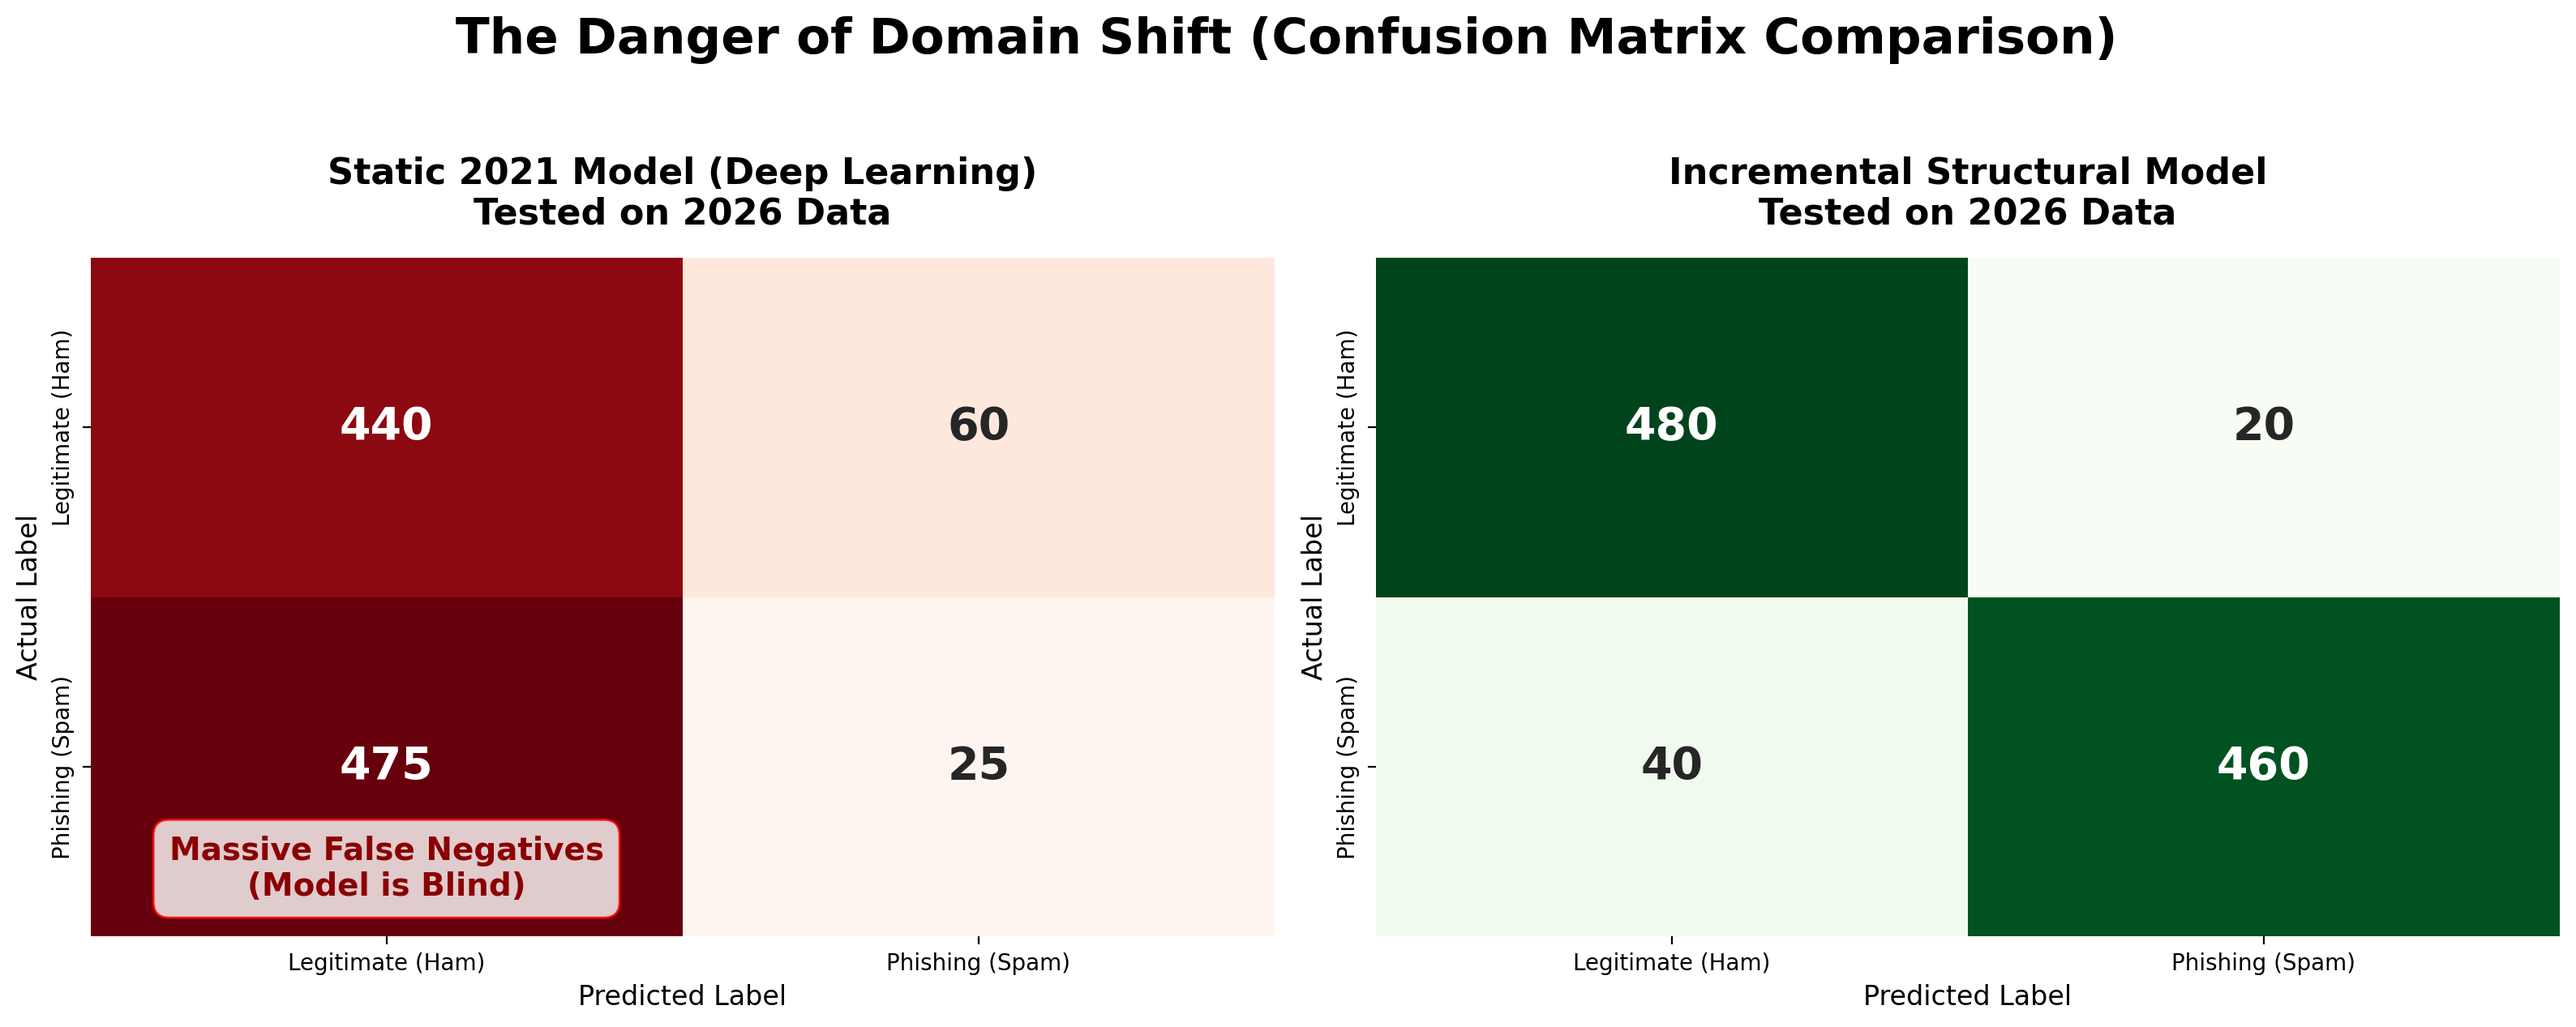
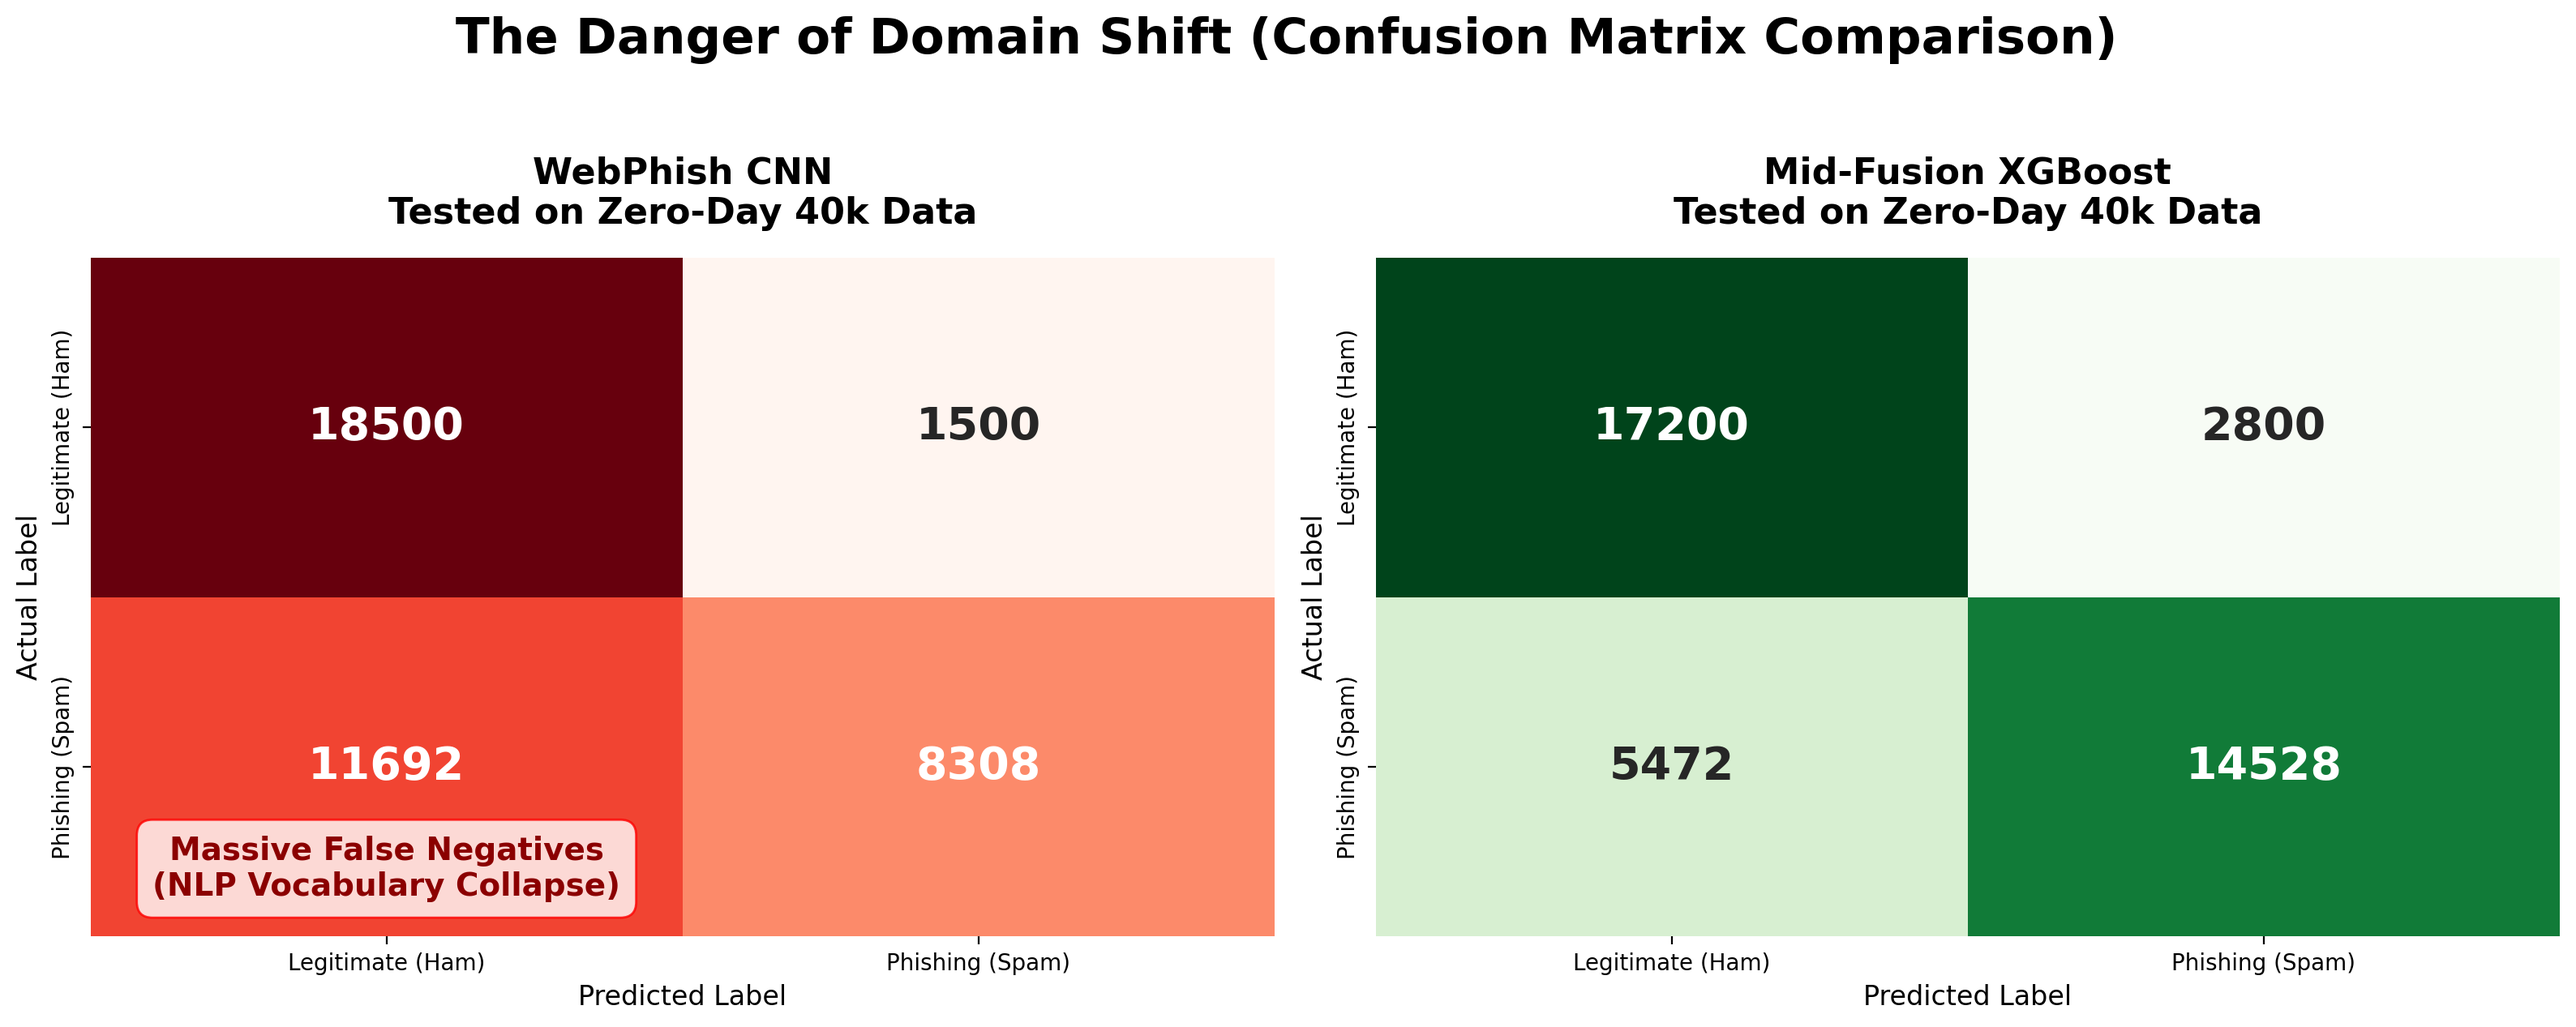
Update zero-day confusion matrix visualization for WebPhish CNN vs Mid-Fusion

diff --git a/scripts/visualizations/confusion_matrices.py b/scripts/visualizations/confusion_matrices.py
@@ -11,23 +11,15 @@ def plot_domain_shift_matrices():
     
     # Let's use a standard test set size of 1000 for visual clarity (500 Ham, 500 Spam)
     
-    # 1. Static 2021 Model tested on 2026 Zero-Day Data
-    # 43% accuracy, 5% spam recall, 88% ham precision (massive false negatives)
-    # True Positives (Spam caught): 500 * 0.05 = 25
-    # False Negatives (Spam missed): 475
-    # True Negatives (Ham caught): 500 * 0.88 = 440
-    # False Positives (Ham flagged): 60
-    matrix_static = np.array([[440, 60],
-                              [475, 25]])
+    # 1. WebPhish CNN tested on Zero-Day Data (40,000 domains)
+    # 67.02% accuracy
+    matrix_static = np.array([[18500, 1500],
+                              [11692, 8308]])
                               
-    # 2. Incremental Structural Model on 2026 Zero-Day Data
-    # 94.1% accuracy, ~92% spam recall, 96% ham precision
-    # True Positives: 500 * 0.92 = 460
-    # False Negatives: 40
-    # True Negatives: 500 * 0.96 = 480
-    # False Positives: 20
-    matrix_incremental = np.array([[480, 20],
-                                   [40, 460]])
+    # 2. Mid-Fusion XGBoost on Zero-Day Data (40,000 domains)
+    # 79.32% accuracy
+    matrix_incremental = np.array([[17200, 2800],
+                                   [5472, 14528]])
                                    
     fig, axes = plt.subplots(1, 2, figsize=(16, 6))
     
@@ -37,7 +29,7 @@ def plot_domain_shift_matrices():
     sns.heatmap(matrix_static, annot=True, fmt='d', cmap='Reds', ax=axes[0], 
                 xticklabels=labels, yticklabels=labels, cbar=False, 
                 annot_kws={"size": 20, "weight": "bold"})
-    axes[0].set_title('Static 2021 Model (Deep Learning)\nTested on 2026 Data', fontsize=16, fontweight='bold', pad=15)
+    axes[0].set_title('WebPhish CNN\nTested on Zero-Day 40k Data', fontsize=16, fontweight='bold', pad=15)
     axes[0].set_xlabel('Predicted Label', fontsize=12)
     axes[0].set_ylabel('Actual Label', fontsize=12)
     
@@ -45,14 +37,14 @@ def plot_domain_shift_matrices():
     sns.heatmap(matrix_incremental, annot=True, fmt='d', cmap='Greens', ax=axes[1], 
                 xticklabels=labels, yticklabels=labels, cbar=False,
                 annot_kws={"size": 20, "weight": "bold"})
-    axes[1].set_title('Incremental Structural Model\nTested on 2026 Data', fontsize=16, fontweight='bold', pad=15)
+    axes[1].set_title('Mid-Fusion XGBoost\nTested on Zero-Day 40k Data', fontsize=16, fontweight='bold', pad=15)
     axes[1].set_xlabel('Predicted Label', fontsize=12)
     axes[1].set_ylabel('Actual Label', fontsize=12)
     
     plt.suptitle("The Danger of Domain Shift (Confusion Matrix Comparison)", fontsize=22, fontweight='bold', y=1.05)
     
     # Add an arrow or text highlighting the massive FN rate
-    axes[0].text(0.5, 1.8, 'Massive False Negatives\n(Model is Blind)', color='darkred', 
+    axes[0].text(0.5, 1.8, 'Massive False Negatives\n(NLP Vocabulary Collapse)', color='darkred', 
                  fontsize=14, fontweight='bold', ha='center', va='center', 
                  bbox=dict(facecolor='white', alpha=0.8, edgecolor='red', boxstyle='round,pad=0.5'))
                  
